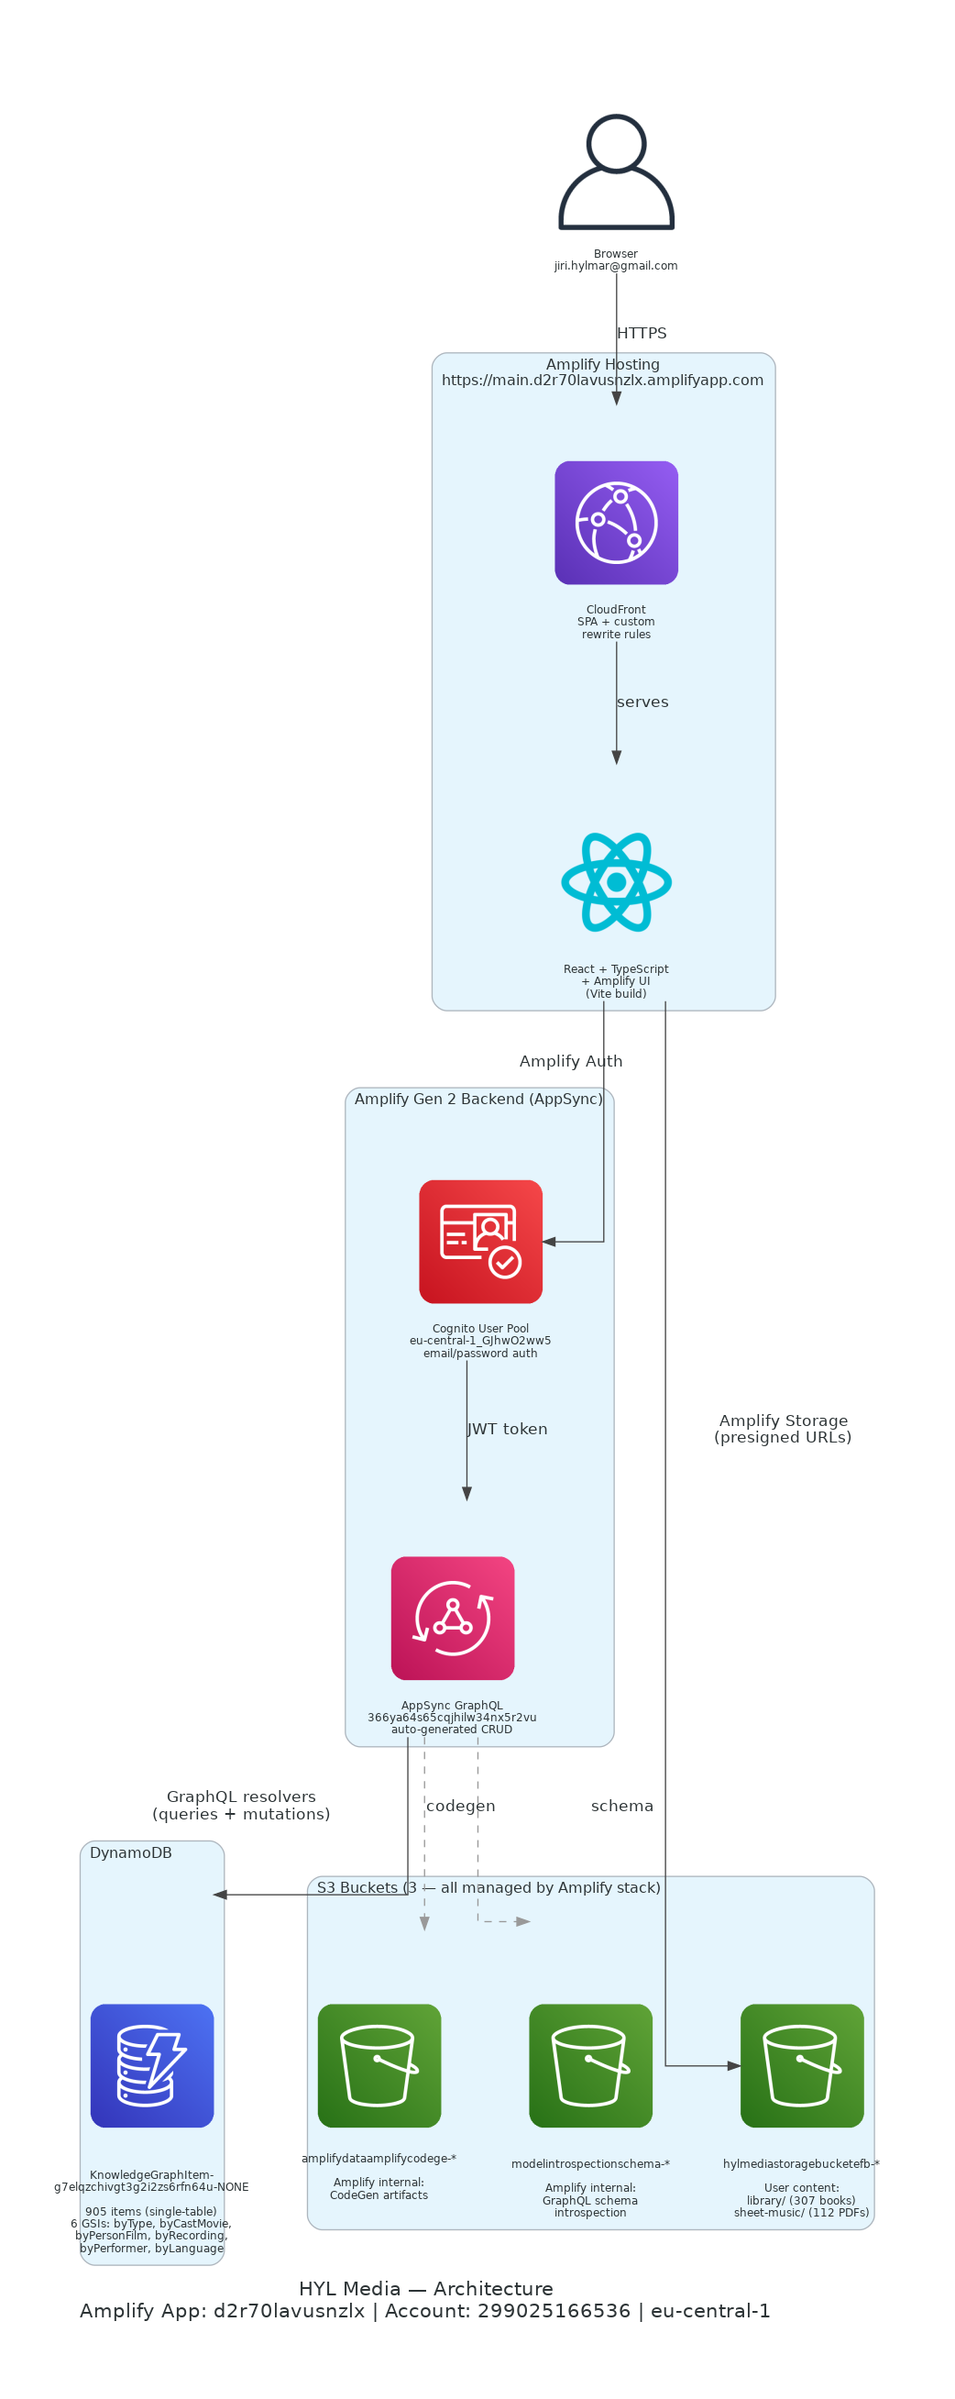
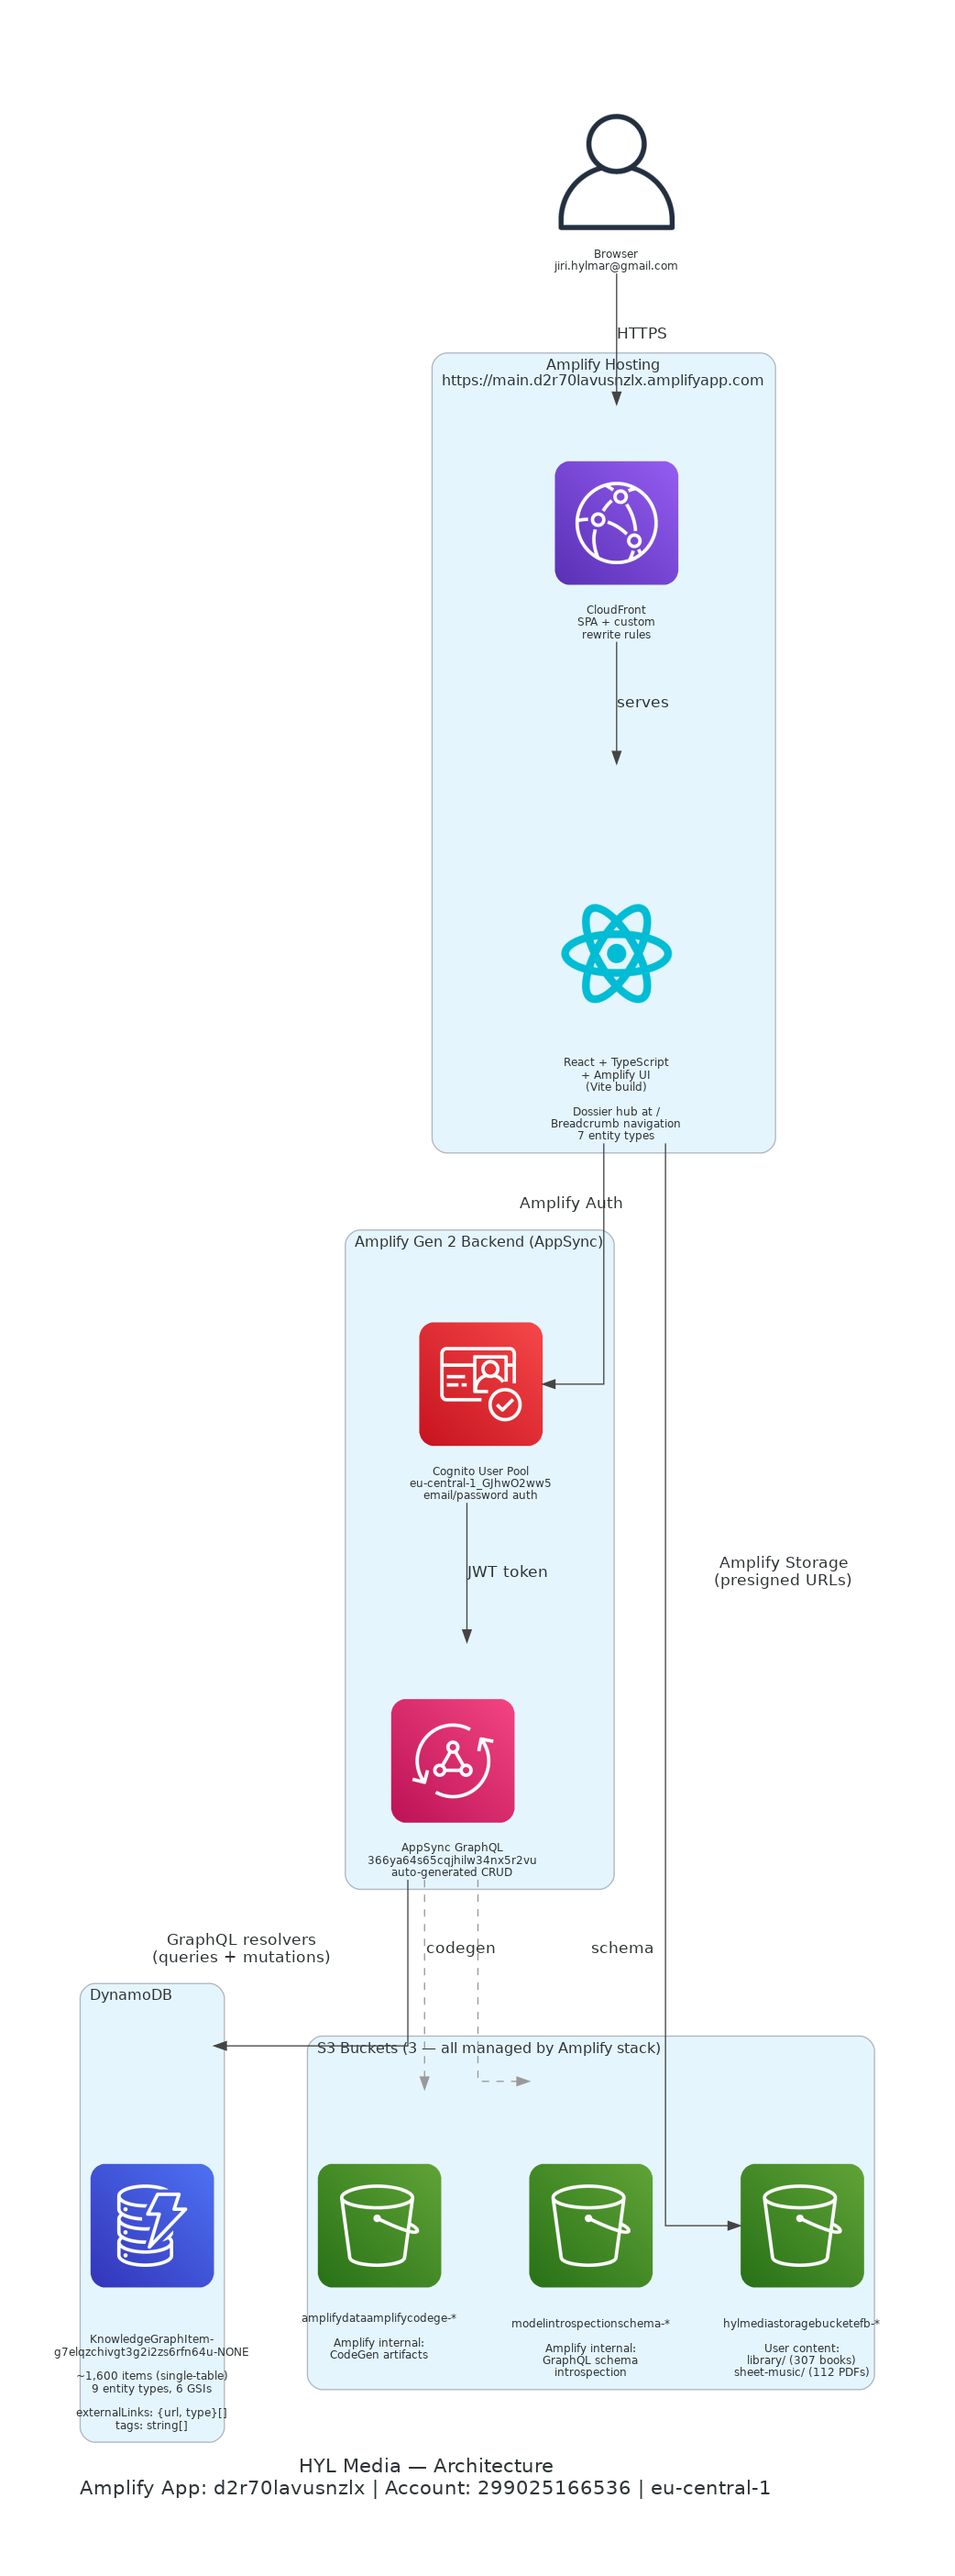
docs: update architecture diagram, README, and docs for Phase 10
- Regenerate architecture diagram with dossier-first nav description
- Update README.md: current entity counts, features, navigation model
- Update docs/architecture/README.md: nav routes, layout, theme info

diff --git a/docs/architecture/generate.py b/docs/architecture/generate.py
@@ -60,7 +60,7 @@ with Diagram(
 
     with Cluster("Amplify Hosting\nhttps://main.d2r70lavusnzlx.amplifyapp.com"):
         cloudfront = CloudFront("CloudFront\nSPA + custom\nrewrite rules")
-        react = React("React + TypeScript\n+ Amplify UI\n(Vite build)\n\n8 routes: movies, bands,\npersons, recordings,\nlibrary, sheet-music, data")
+        react = React("React + TypeScript\n+ Amplify UI\n(Vite build)\n\nDossier hub at /\nBreadcrumb navigation\n7 entity types")
 
     with Cluster("Amplify Gen 2 Backend (AppSync)"):
         cognito = Cognito("Cognito User Pool\neu-central-1_GJhwO2ww5\nemail/password auth")

diff --git a/docs/architecture/README.md b/docs/architecture/README.md
@@ -22,11 +22,12 @@
 | band | 45 | Music groups |
 | person | 416 | Actors, directors, authors, artists, musicians |
 | recording | 94 | Songs/tracks with performer links |
+| collaboration | 8 | Music collaborations (reuses BandDetail) |
 | book | 306 | Library items with author, S3 file reference |
 | sheet_music | 112 | Chord sheets with artist, S3 file reference |
-| movie_cast | ~400 | Relationship: movie ↔ person (role) |
-| recording_performer | ~160 | Relationship: recording ↔ person/band |
-| sheet_music_performer | ~62 | Relationship: sheet_music ↔ person/band |
+| movie_cast | ~400 | Relationship: movie <> person (role) |
+| recording_performer | ~160 | Relationship: recording <> person/band |
+| sheet_music_performer | ~62 | Relationship: sheet_music <> person/band |
 
 ### Key Fields on All Entities
 
@@ -68,17 +69,34 @@ All 3 buckets are created and managed by the Amplify CloudFormation stack. Do no
 | byPerformer | performerId | recordingName | Find recordings for a performer |
 | byLanguage | language | name | Filter by language |
 
-## Frontend Pages
+## Frontend — Navigation
 
-| Route | Page | Purpose |
-|-------|------|---------|
-| `/movies`, `/movies/:id` | Movie list & detail | Browse/edit movies, cast, links |
-| `/bands`, `/bands/:id` | Band list & detail | Browse/edit bands, discography |
-| `/persons`, `/persons/:id` | People list & detail | Browse/edit persons by role |
-| `/recordings`, `/recordings/:id` | Recording list & detail | Browse/edit recordings, performers |
-| `/library`, `/library/:id` | Library list & detail | Browse/download books, edit metadata |
-| `/sheet-music`, `/sheet-music/:id` | Sheet music list & detail | Browse/download PDFs, edit metadata |
-| `/data` | Data Management | Overview, per-entity tabs with consolidated stats |
+The app uses a **Dossier-first** navigation model:
+
+```
+/                    Dossier (main hub — 8 tabs: Overview, Movies, Bands, People,
+                     Recordings, Library, Sheet Music, Tags)
+  /?tab=movies       Deep-link to specific Dossier tab
+  /movies            Movie list (+ New, filters) — breadcrumb back to Dossier
+  /movies/:id        Movie detail (inline edit, cast, tags, links) — breadcrumb
+  /persons            People list — breadcrumb back to Dossier
+  /persons/:id       Person detail — breadcrumb
+  /bands             Band list — breadcrumb
+  /bands/:id         Band detail — breadcrumb
+  /collaborations    Collaboration list — breadcrumb
+  /collaborations/:id Collaboration detail (reuses BandDetail)
+  /recordings        Recording list — breadcrumb
+  /recordings/:id    Recording detail — breadcrumb
+  /library           Library list (+ Upload Book) — breadcrumb
+  /library/:id       Book detail — breadcrumb
+  /sheet-music       Sheet music list (+ Upload) — breadcrumb
+  /sheet-music/:id   Sheet music detail — breadcrumb
+  /dossier           Alias for / (backward compat)
+```
+
+**Layout**: Minimal top bar (logo + user/sign out). No sidebar. Full-width content.
+
+**Visual theme**: 80s FBI terminal — dark background, green monospace text, CRT scanline overlay.
 
 ## Regenerating Diagram
 

diff --git a/README.md b/README.md
@@ -1,6 +1,6 @@
 # HYL Media
 
-Personal media catalog — movies, music, books, sheet music.
+Personal media knowledge graph — movies, music, books, sheet music. DynamoDB single-table design with Amplify Gen 2 frontend. 80s FBI terminal aesthetic.
 
 ## Live App
 
@@ -14,25 +14,55 @@ Personal media catalog — movies, music, books, sheet music.
 
 ![HYL Media Architecture](docs/architecture/hyl_media_architecture.png)
 
+See [Architecture Documentation](docs/architecture/README.md) for details.
+
 ## Stack
 
 - **Frontend**: React + TypeScript + Vite + Amplify UI
 - **Backend**: Amplify Gen 2 (AppSync GraphQL + DynamoDB + Cognito + S3)
 - **Hosting**: Amplify Hosting (auto-deploy from GitHub `main`)
 - **Region**: eu-central-1
+- **Account**: 299025166536
 
 ## Data
 
-| Entity Type | Count |
-|-------------|-------|
-| Movies | 94 |
-| Persons | 231 |
-| Bands | 33 |
-| Artists | 3 |
-| Collaborations | 8 |
-| Recordings | 94 |
-| Books | 306 |
-| Sheet Music | 112 |
+| Entity Type | Count | Description |
+|-------------|-------|-------------|
+| Movies | 94 | Films with cast, soundtrack links |
+| People | 416 | Actors, directors, authors, artists, musicians |
+| Bands | 45 | Music groups |
+| Collaborations | 8 | Music collaborations |
+| Recordings | 94 | Songs/tracks with performer links |
+| Books | 306 | PDF/epub library with S3 storage |
+| Sheet Music | 112 | Chord sheet PDFs with S3 storage |
+
+~1,600 total items. 85% have external links (Wikipedia, IMDB, NKP, MusicBrainz, etc.).
+
+## Features
+
+- **Dossier hub** — single-page overview with tabs for all entity types, stats, tag coverage
+- **Inline editing** — click any field to edit (name, language, tags, external links)
+- **Relationship navigation** — movies link to cast, recordings to performers, books to authors
+- **Create forms** — add new entities or upload book/sheet music PDFs
+- **External links** — flexible `{url, type}` system, 10+ source types
+- **Tag system** — controlled vocabulary with genre, role, instrument categories
+- **Breadcrumb navigation** — `DOSSIER > Movies > [name]` on every page
+- **80s FBI terminal theme** — dark background, green monospace, CRT scanlines
+
+## Navigation
+
+```
+/              Dossier (main hub)
+/movies        Movie list + create
+/movies/:id    Movie detail + edit
+/persons       People list + create
+/bands         Band list + create
+/recordings    Recording list + create
+/library       Book list + upload
+/sheet-music   Sheet music list + upload
+```
+
+All pages have breadcrumb navigation back to the Dossier.
 
 ## Development
 
@@ -41,8 +71,16 @@ Personal media catalog — movies, music, books, sheet music.
 npm install
 
 # Generate Amplify outputs (requires AWS profile JiHy__vsb__299)
-AWS_REGION=eu-central-1 npx ampx generate outputs --app-id d2r70lavusnzlx --branch main --profile JiHy__vsb__299
+AWS_REGION=eu-central-1 npx ampx generate outputs \
+  --app-id d2r70lavusnzlx --branch main --profile JiHy__vsb__299
 
 # Run locally
 npm run dev
+
+# Build
+npm run build
 ```
+
+## Project Status
+
+All 63 tasks across 11 phases complete. See [progress.json](progress.json) for full history.
